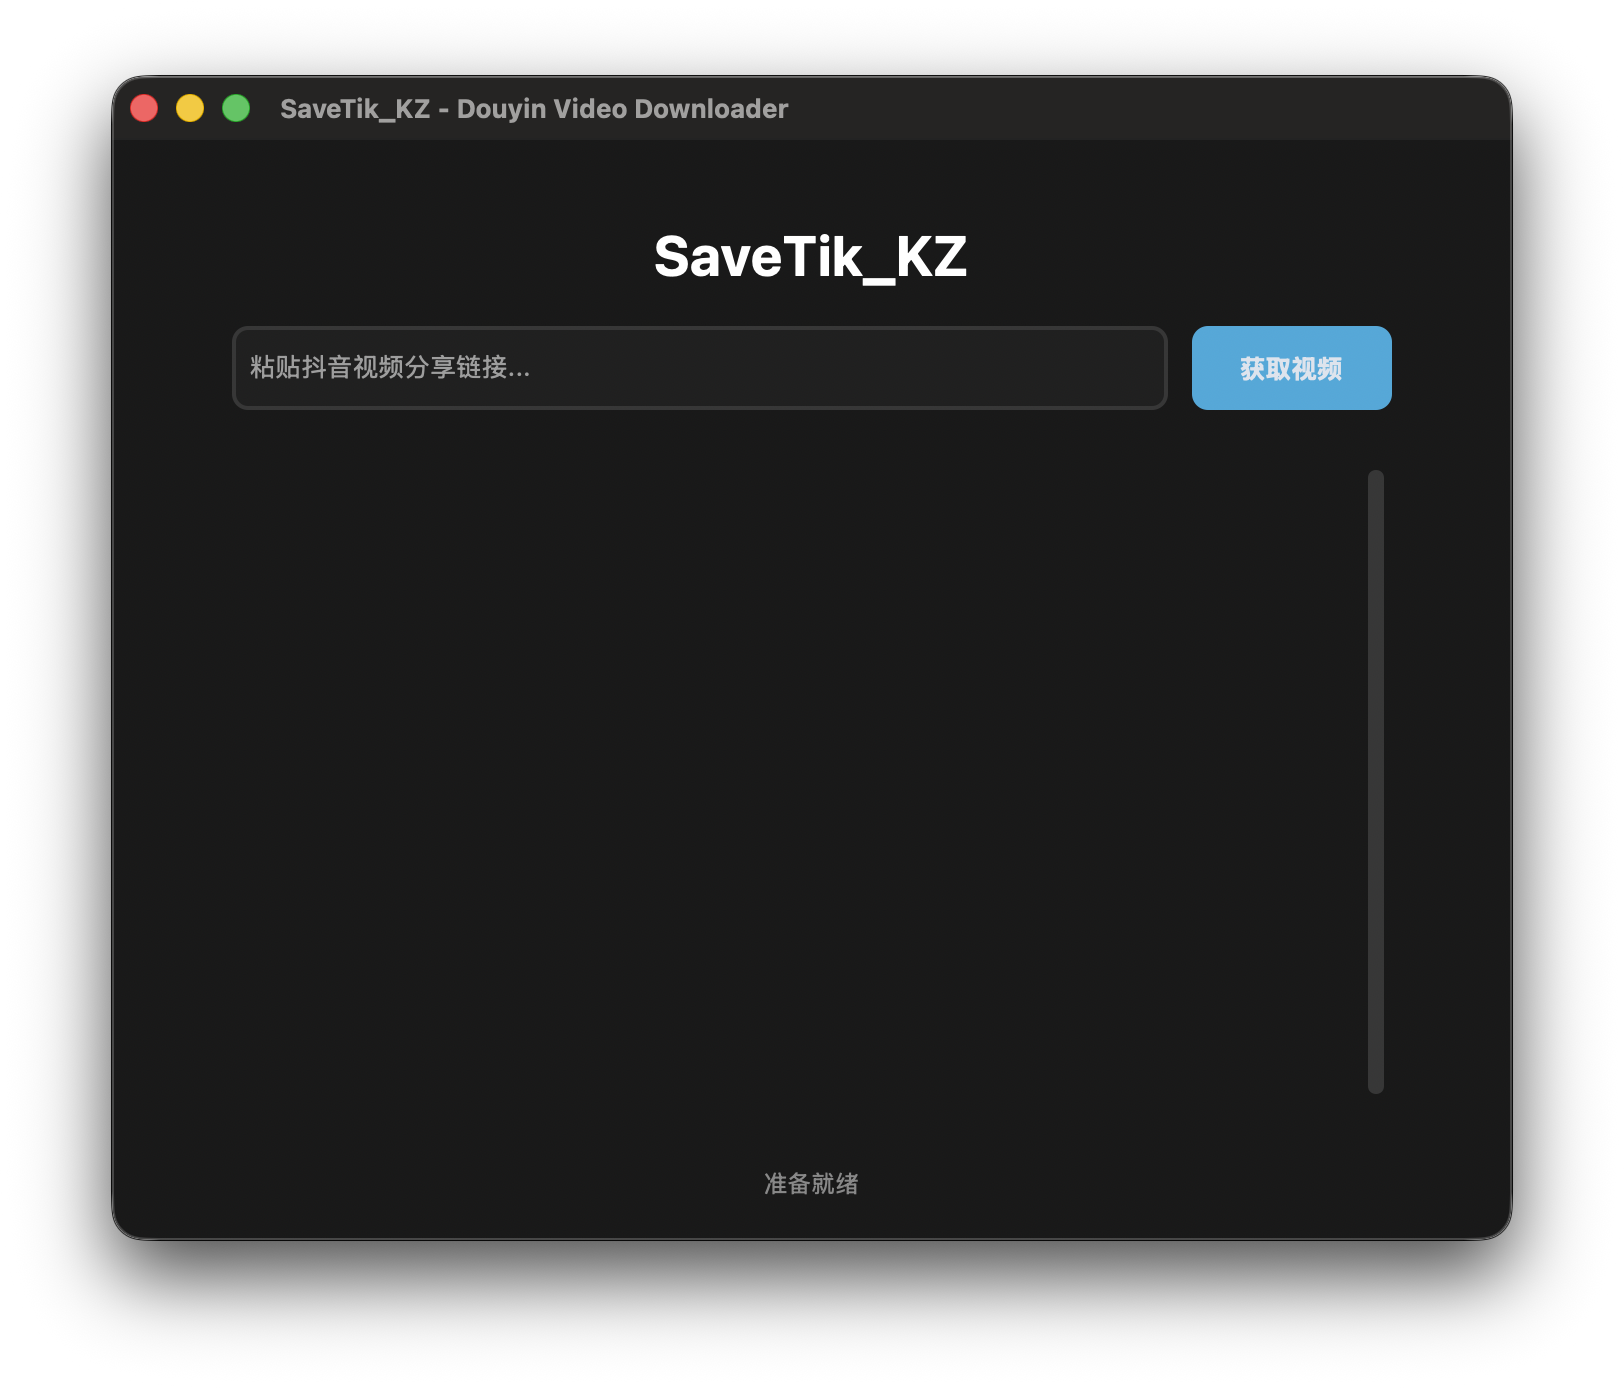
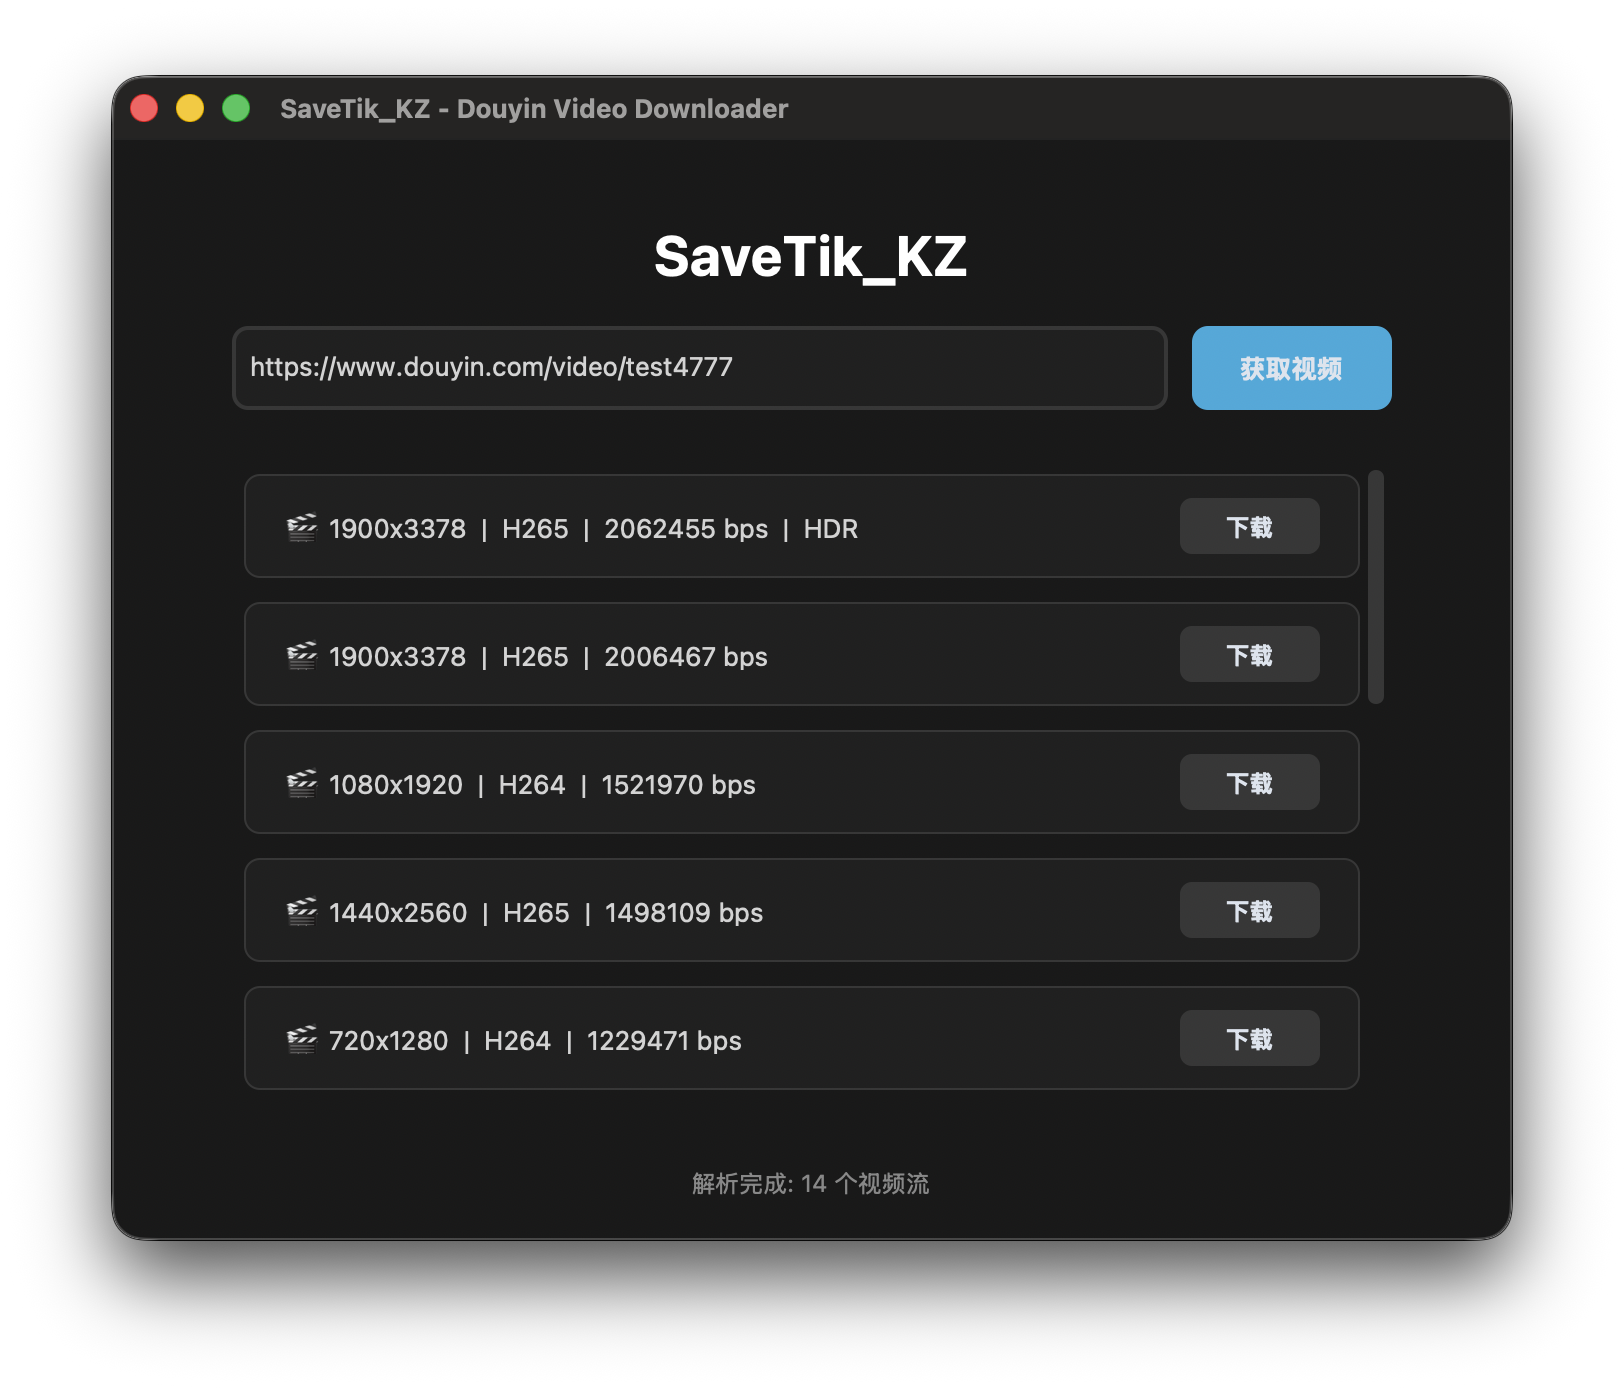
SaveTik_KZ V1.2

diff --git a/main.py b/main.py
@@ -110,7 +110,8 @@ class SaveTikApp(ctk.CTk):
 
         self.video_data = data
         self.metadata = meta
-        self.status_bar.configure(text=f"👤 {meta['nickname']}  |  📅 {meta['create_time']}")
+        # self.status_bar.configure(text=f"👤 {meta['nickname']}  |  📅 {meta['create_time']}")
+        self.status_bar.configure(text=f"解析完成: {len(data)} 个视频流")
 
         for info in data:
             item = ctk.CTkFrame(
@@ -122,7 +123,9 @@ class SaveTikApp(ctk.CTk):
             )
             item.pack(fill="x", pady=6)
             
-            desc = f"🎬 {info['width']}x{info['height']}  |  {info['encoding']}  |  {info['bit_rate']} bps"
+            is_hdr = info.get('HDR_bit') == "10" and info.get('HDR_type') == "1"
+            hdr_tag = "  |  HDR" if is_hdr else ""
+            desc = f"🎬 {info['width']}x{info['height']}  |  {info['encoding']}  |  {info['bit_rate']} bps{hdr_tag}"
             ctk.CTkLabel(item, text=desc, font=("Inter", 13), text_color=self.text_main).pack(side="left", padx=20, pady=12)
             
             dl_btn = ctk.CTkButton(
@@ -138,8 +141,18 @@ class SaveTikApp(ctk.CTk):
             dl_btn.pack(side="right", padx=20)
 
     def on_download(self, info):
-        self.status_bar.configure(text=f"正在下载 {info['height']}p 视频...")
-        threading.Thread(target=download_video_stream, args=(info, self.metadata), daemon=True).start()
+        is_hdr = info.get('HDR_bit') == "10" and info.get('HDR_type') == "1"
+        hdr_tag = " HDR" if is_hdr else ""
+        self.status_bar.configure(text=f"正在下载 {info['height']}p{hdr_tag} 视频...")
+
+        def do_download():
+            success = download_video_stream(info, self.metadata)
+            if success:
+                self.after(0, lambda: self.status_bar.configure(text=f"✅ 下载完成: {info['height']}p{hdr_tag}"))
+            else:
+                self.after(0, lambda: self.status_bar.configure(text=f"❌ 下载失败: {info['height']}p{hdr_tag}"))
+
+        threading.Thread(target=do_download, daemon=True).start()
 
 if __name__ == "__main__":
     app = SaveTikApp()

diff --git a/utils/video_downloader.py b/utils/video_downloader.py
@@ -24,8 +24,12 @@ def download_video_stream(stream_info, metadata):
     # 准确对应 url_list[0]
     video_url = url_list[0]
 
-    # 构造文件名: {nickname}_{create_time}_{分辨率}p_{编码格式}_{码率信息}.mp4
-    filename = f"{nickname}_{create_time}_{height}*{width}p_{encoding}_{bit_rate}.mp4"
+    # HDR 标识判断
+    is_hdr = stream_info.get('HDR_bit') == "10" and stream_info.get('HDR_type') == "1"
+    hdr_tag = "_HDR" if is_hdr else ""
+
+    # 构造文件名: {nickname}_{create_time}_{分辨率}p_{编码格式}_{码率信息}{HDR}.mp4
+    filename = f"{nickname}_{create_time}_{height}*{width}p_{encoding}_{bit_rate}{hdr_tag}.mp4"
     
     headers = {
         'referer': 'https://www.douyin.com/', 
@@ -44,5 +48,7 @@ def download_video_stream(stream_info, metadata):
             for chunk in response.iter_content(chunk_size=8192):
                 f.write(chunk)
         print(f"[+] 下载成功！文件保存为: {save_path}")
+        return True
     except Exception as e:
         print(f"[-] 下载失败: {e}")
+        return False

diff --git a/print_video_list.py b/print_video_list.py
@@ -23,6 +23,11 @@ def main():
         print(f"序号: {i}")
         print(f"编码格式: {info['encoding']}")
         print(f"分辨率: {info['width']}x{info['height']}")
+        # print(f"HDR: {info['HDR_bit']}")
+        # print(f"HDR_type: {info['HDR_type']}")
+        is_hdr = info.get('HDR_bit') == "10" and info.get('HDR_type') == "1"
+        if is_hdr:
+            print(f"HDR: 是 (10-bit)")
         print(f"FPS: {info['FPS']}")
         print(f"比特率: {info['bit_rate']}")
         print(f"文件大小: {info['data_size']} bytes")

diff --git a/utils/video_parser.py b/utils/video_parser.py
@@ -78,6 +78,8 @@ def parse_video_data(input_text):
             results[file_hash] = {
                 'FPS': item.get('FPS', ''),
                 'bit_rate': item.get('bit_rate', ''),
+                'HDR_bit': item.get('HDR_bit', ''),
+                'HDR_type': item.get('HDR_type', ''),
                 'data_size': play_addr.get('data_size', ''),
                 'file_hash': file_hash,
                 'height': play_addr.get('height', ''),

diff --git a/README.md b/README.md
@@ -6,8 +6,13 @@ This is a simple and efficient Douyin web video downloader built on `DrissionPag
 
 ## Features
 
-- Download videos from the Douyin web platform with support for multiple quality options.  
-  This tool retrieves all available video quality levels for a target video, allowing you to select and download the quality you need.
+- Download videos from the Douyin web platform with comprehensive quality selection support:
+  - **Resolution** (e.g. 720p / 1080p / 4K)
+  - **Bitrate** (controls compression level and output quality)
+  - **Video Codec** (such as H.264 / H.265)
+  - **HDR Support** (HDR / SDR variants)
+  
+  The tool automatically retrieves all available quality profiles for a target video, allowing you to precisely select and download the desired version.
 
 
 ## Requirements

diff --git a/note.md b/note.md
@@ -88,6 +88,8 @@ tab.get('https://www.youtube.com/')
         >>>`bit_rate` ：视频质量最全的 `video_info_list`
         >>>>`0`
         >>>>>`FPS`
+        >>>>>`HDR_bit` ：HDR 视频为 10
+        >>>>>`HDR_type` ：HDR 视频为 1
         >>>>>`bit_rate`
         >>>>>`format`
         >>>>>`play_addr`
